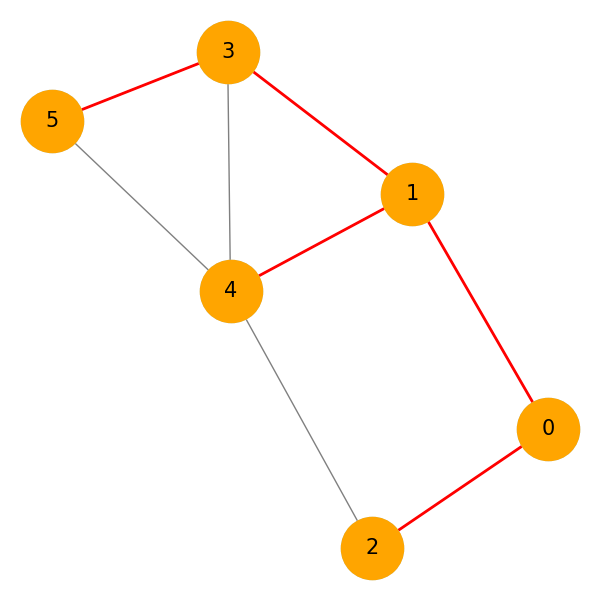
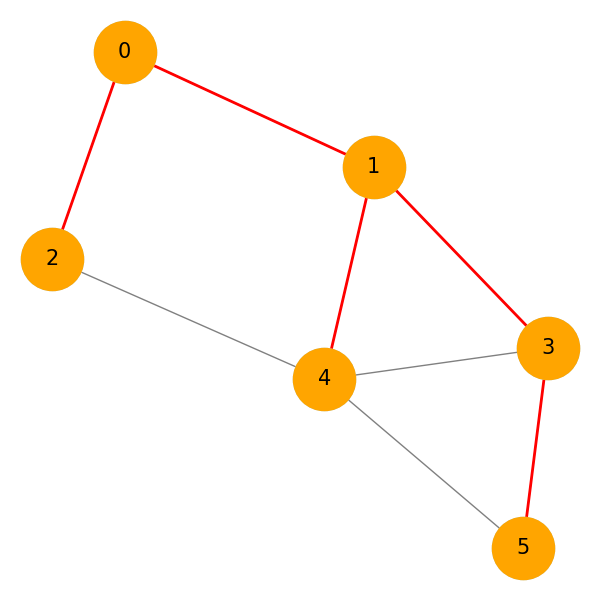
Exemplo by eduardo

diff --git a/Algoritmo BFS/Exemplo Rede Social/SocialNetworkExample.py b/Algoritmo BFS/Exemplo Rede Social/SocialNetworkExample.py
@@ -1,0 +1,114 @@
+import networkx as nx
+import matplotlib.pyplot as plt
+
+# Função para criar o grafo a partir de uma matriz de adjacência
+def create_graph(graph):
+    G = nx.Graph()
+    for i in range(len(graph)):
+        for j in range(i, len(graph[i])):  # Evita adicionar arestas duplicadas
+            if graph[i][j] == 1:
+                G.add_edge(i, j)
+    return G
+
+# Função para salvar a imagem do grafo
+def plot_and_save_graph(G, filename, highlight_edges=None, highlight_nodes=None, path_edges=None):
+    pos = nx.spring_layout(G)  # Define a posição dos nós
+    plt.figure(figsize=(8, 8))
+
+    # Desenha todas as arestas normalmente
+    nx.draw(G, pos, with_labels=True, node_color='lightblue', edge_color='gray', node_size=2000, font_size=15)
+
+    # Destaca arestas da árvore BFS (se houver)
+    if highlight_edges:
+        nx.draw_networkx_edges(G, pos, edgelist=highlight_edges, edge_color='red', width=2)
+
+    # Destaca nós visitados pela BFS (se houver)
+    if highlight_nodes:
+        nx.draw_networkx_nodes(G, pos, nodelist=highlight_nodes, node_color='orange', node_size=2000)
+
+    # Destaca caminho mais curto em verde (se houver)
+    if path_edges:
+        nx.draw_networkx_edges(G, pos, edgelist=path_edges, edge_color='green', width=3, style="dashed")
+
+    plt.savefig(filename)  # Salva a imagem
+    plt.close()
+
+# Função para criar lista de adjacência
+def create_adjacency_list(graph):
+    adjacency_list = {}
+    for i in range(len(graph)):
+        adjacency_list[i] = []
+        for j in range(len(graph[i])):
+            if graph[i][j] == 1:
+                adjacency_list[i].append(j)
+    return adjacency_list
+
+# Algoritmo de BFS que também encontra caminhos mínimos
+def breadth_first_search_tree(graph, start):
+    adjacency_list = create_adjacency_list(graph)
+    visited = [False] * len(graph)
+    queue = [start]
+    visited[start] = True
+    bfs_tree_edges = []
+    bfs_nodes = [start]
+    parent = {start: None}  # Dicionário para armazenar os pais dos nós
+
+    while queue:
+        node = queue.pop(0)
+        for neighbour in adjacency_list[node]:
+            if not visited[neighbour]:
+                queue.append(neighbour)
+                visited[neighbour] = True
+                bfs_tree_edges.append((node, neighbour))
+                bfs_nodes.append(neighbour)
+                parent[neighbour] = node  # Registra o pai do nó
+
+    return bfs_tree_edges, bfs_nodes, parent
+
+# Função para reconstruir o caminho mais curto até um nó
+def shortest_path(parent, target):
+    path = []
+    while target is not None:
+        path.append(target)
+        target = parent[target]
+    path.reverse()
+    return path
+
+# Exemplo de rede social (matriz de adjacência)
+# Nós: 0 = Alfredo, 1 = Bruna, 2 = Carol, 3 = Daniel, 4 = Erica, 5 = Fernando
+graph = [
+    [0, 1, 1, 0, 0, 0],  # Alfredo: Bruna e Carol
+    [1, 0, 0, 1, 1, 0],  # Bruna: Alfredo, Daniel e Erick
+    [1, 0, 0, 0, 1, 0],  # Carol: Alfredo e Erick
+    [0, 1, 0, 0, 1, 1],  # Daniel: Bruna, Erick e Fernando
+    [0, 1, 1, 1, 0, 1],  # Erick: Bruna, Carol, Daniel e Fernando
+    [0, 0, 0, 1, 1, 0]   # Fernando: Daniel e Erick
+]
+
+# Criar o grafo original e salvar imagem
+G = create_graph(graph)
+plot_and_save_graph(G, "rede_social_original.png")
+
+# Definir o nó inicial (Alfredo) e o nó de destino (Fernando)
+start_node = 0  # Alfredo
+target_node = 5  # Fernando
+
+# Rodar BFS e capturar árvore BFS e os pais dos nós
+bfs_edges, bfs_nodes, parent = breadth_first_search_tree(graph, start_node)
+
+# Gerar e salvar a imagem da árvore BFS
+plot_and_save_graph(G, "arvore_bfs_rede_social.png", highlight_edges=bfs_edges, highlight_nodes=bfs_nodes)
+
+# Encontrar e exibir caminho mais curto
+shortest_path_nodes = shortest_path(parent, target_node)
+path_edges = [(shortest_path_nodes[i], shortest_path_nodes[i+1]) for i in range(len(shortest_path_nodes)-1)]
+
+print(f"\nCaminho mais curto de {start_node} (Alfredo) até {target_node} (Fernando): {shortest_path_nodes}")
+
+# Gerar e salvar imagem do caminho mais curto
+plot_and_save_graph(G, "caminho_mais_curto_rede_social.png", path_edges=path_edges, highlight_nodes=shortest_path_nodes)
+
+print("\nImagens salvas:")
+print("- 'rede_social_original.png': Grafo original da rede social.")
+print("- 'arvore_bfs_rede_social.png': Árvore BFS a partir de Alfredo.")
+print("- 'caminho_mais_curto_rede_social.png': Caminho mais curto de Alfredo até Fernando.")
